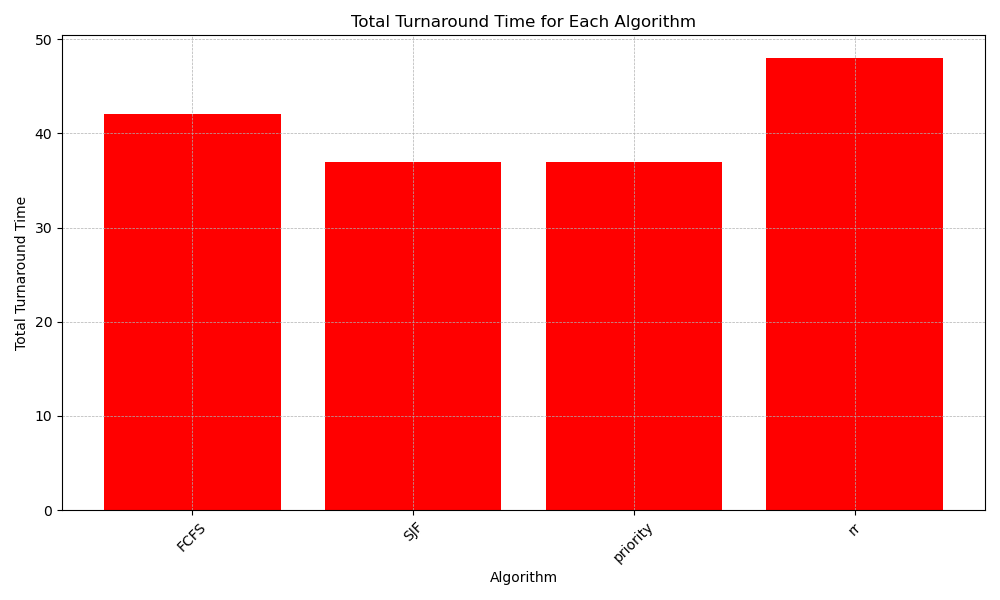
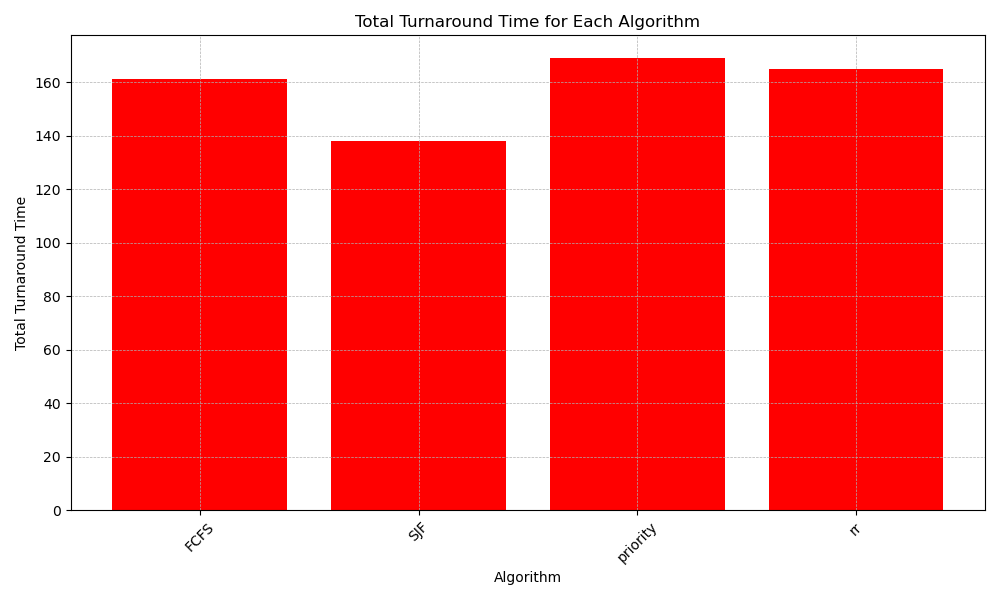
documentation not done

diff --git a/scheduler.py b/scheduler.py
@@ -2,19 +2,34 @@ from process import Process
 from utils import *
 
 class Scheduler:
+    """
+    Represents a CPU scheduler.
+    """
+
     def __init__(self, processes):
+        """
+        Initialize the scheduler with a list of processes.
+
+        Args:
+            processes (list): List of Process objects.
+        """
         self.processes = processes
         self.total_turnaround_time = 0.0
         self.total_waiting_time = 0.0
-        self.avg_turnaround_time =0.0
+        self.avg_turnaround_time = 0.0
         self.avg_waiting_time = 0.0
 
     def run_FCFS(self):
+        """
+        Run the First-Come, First-Served (FCFS) scheduling algorithm.
+        """
         # Sort processes based on arrival time
         self.processes.sort(key=lambda x: x.arrival_time)
 
         current_time = 0
         gantt = []
+
+        # Execute each process in FCFS order
         for process in self.processes:
             # Ensure current time is at least the arrival time of the current process
             if current_time < process.arrival_time:
@@ -22,7 +37,8 @@ class Scheduler:
 
             # Execute the process
             print(f"Executing Process {process.id} at Time {current_time}")
-            gantt.append((process.id,process.burst_time))
+            gantt.append((process.id, process.burst_time))
+
             # Update current time to account for process burst time
             current_time += process.burst_time
 
@@ -32,7 +48,7 @@ class Scheduler:
             # Calculate and display turnaround time for the process
             turnaround_time = process.finish_time - process.arrival_time
             print(f"Process {process.id} completed. Turnaround Time: {turnaround_time}")
-        
+
         # Calculate and display average turnaround time for all processes
         avg_turnaround_time = calculate_average_turnaround_time(self.processes)
         avg_waiting_time = calculate_average_waiting_time(self.processes)
@@ -45,6 +61,9 @@ class Scheduler:
         return gantt
 
     def run_SJF(self):
+        """
+        Run the Shortest Job First (SJF) scheduling algorithm.
+        """
         # Sort processes based on arrival time
         self.processes.sort(key=lambda x: x.arrival_time)
         original = [i for i in self.processes]
@@ -71,6 +90,7 @@ class Scheduler:
             # Execute the shortest job
             print(f"Executing Process {shortest_job.id} at Time {current_time}")
             gantt.append((shortest_job.id, shortest_job.burst_time))
+
             # Update current time to account for process burst time
             current_time += shortest_job.burst_time
 
@@ -84,6 +104,7 @@ class Scheduler:
             # Remove the completed process from the list of processes
             self.processes.remove(shortest_job)
             completed_processes.append(shortest_job)
+
         self.processes = [i for i in original]
 
         # Calculate and display average turnaround time for all processes
@@ -98,6 +119,9 @@ class Scheduler:
         return gantt
 
     def run_priority_scheduling(self):
+        """
+        Run the Priority Scheduling algorithm.
+        """
         # Sort processes based on arrival time and priority
         self.processes.sort(key=lambda x: (x.arrival_time, -x.priority))
         original = [i for i in self.processes]
@@ -125,6 +149,7 @@ class Scheduler:
             # Execute the highest priority process
             print(f"Executing Process {highest_priority_process.id} at Time {current_time}")
             gantt.append((highest_priority_process.id, highest_priority_process.burst_time))
+
             # Update current time to account for process burst time
             current_time += highest_priority_process.burst_time
 
@@ -154,6 +179,12 @@ class Scheduler:
         return gantt
 
     def run_round_robin(self, time_slice):
+        """
+        Run the Round Robin (RR) scheduling algorithm.
+
+        Args:
+            time_slice (int): The time quantum for the RR algorithm.
+        """
         # Sort processes based on arrival time
         self.processes.sort(key=lambda x: x.arrival_time)
         current_time = 0
@@ -205,7 +236,3 @@ class Scheduler:
         print(f"Total Waiting Time (Round Robin): {total_waiting_time}")
 
         return gantt
-
-    def run_priority_rr(self, time_slice):
-        # Implement Priority Scheduling + RR algorithm with given time slice
-        pass

diff --git a/utils.py b/utils.py
@@ -1,7 +1,22 @@
+"""
+Utility functions for generating, calculating, and reading processes.
+"""
+
 import random
 from process import Process
 
 def generate_random_processes(num_processes, max_burst_time, max_priority):
+    """
+    Generate a list of random processes with specified attributes.
+
+    Args:
+        num_processes (int): The number of processes to generate.
+        max_burst_time (int): The maximum burst time for generated processes.
+        max_priority (int): The maximum priority for generated processes.
+
+    Returns:
+        list: List of randomly generated Process objects.
+    """
     processes = []
     random.seed()
 
@@ -15,6 +30,15 @@ def generate_random_processes(num_processes, max_burst_time, max_priority):
     return processes
 
 def calculate_average_turnaround_time(processes):
+    """
+    Calculate the average turnaround time for a list of processes.
+
+    Args:
+        processes (list): List of Process objects.
+
+    Returns:
+        float: Average turnaround time.
+    """
     total_turnaround_time = 0.0
     print("Turnaround:")
     for process in processes:
@@ -24,32 +48,73 @@ def calculate_average_turnaround_time(processes):
     return total_turnaround_time / len(processes)
 
 def calculate_total_turnaround_time(processes):
+    """
+    Calculate the total turnaround time for a list of processes.
+
+    Args:
+        processes (list): List of Process objects.
+
+    Returns:
+        float: Total turnaround time.
+    """
     total_turnaround_time = 0.0
     print("Turnaround:")
     for process in processes:
         print(f"{process.finish_time - process.arrival_time} + ")
-        process.turnaround = process.finish_time - process.arrival_time
         total_turnaround_time += (process.finish_time - process.arrival_time)
     return total_turnaround_time
 
 def calculate_average_waiting_time(processes):
+    """
+    Calculate the average waiting time for a list of processes.
+
+    Args:
+        processes (list): List of Process objects.
+
+    Returns:
+        float: Average waiting time.
+    """
     total_waiting_time = 0.0
     print("Waiting time:")
     for process in processes:
         print(f"{(process.finish_time - process.arrival_time) - process.burst_time} + ")
-        process.waiting = (process.finish_time - process.arrival_time) - process.burst_time
         total_waiting_time += (process.finish_time - process.arrival_time) - process.burst_time
     return total_waiting_time / len(processes)
+
 def calculate_total_waiting_time(processes):
+    """
+    Calculate the total waiting time for a list of processes.
+
+    Args:
+        processes (list): List of Process objects.
+
+    Returns:
+        float: Total waiting time.
+    """
     total_waiting_time = 0.0
     print("Waiting time:")
     for process in processes:
         print(f"{(process.finish_time - process.arrival_time) - process.burst_time} + ")
         total_waiting_time += (process.finish_time - process.arrival_time) - process.burst_time
     return total_waiting_time
-def find_process_by_id(process_id, processes):
-    """Find a process by its ID."""
-    for process in processes:
-        if process.id == process_id:
-            return process
-    return None
+
+def read_processes_from_file(file_path):
+    """
+    Read process information from a file and create Process objects.
+
+    Args:
+        file_path (str): The path to the file containing process information.
+
+    Returns:
+        list: List of Process objects read from the file.
+    """
+    processes = []
+    with open(file_path, "r") as file:
+        for line in file:
+            attributes = line.strip().split()
+            priority = None
+            if int(attributes[3]) != -1:
+                priority = int(attributes[3])
+            process = Process(int(attributes[0]), int(attributes[1]), int(attributes[2]), priority)
+            processes.append(process)
+    return processes

diff --git a/test.py b/test.py
@@ -2,42 +2,23 @@ from process import Process
 from scheduler import Scheduler
 from utils import *
 
-def read_processes_from_file(file_path):
-    processes = []
-    with open(file_path, "r") as file:
-        for line in file:
-            attributes = line.strip().split()
-            priority = None
-            if int(attributes[3]) != -1:
-                priority = int(attributes[3])
-            process = Process(int(attributes[0]), int(attributes[1]), int(attributes[2]), priority)
-            processes.append(process)
-    return processes
+# Create a list of processes manually
+processes_manual = [
+     Process(id=1, arrival_time=1, burst_time=1, priority=1),
+     Process(id=2, arrival_time=1, burst_time=1, priority=2),
+]
 
+# Reading processes from processes2.txt file in the same directory
+processes_file = read_processes_from_file("processes2.txt")
 
-# Create a list of processes
-processes = [
-     Process(id=1, arrival_time=0, burst_time=7, priority=1),
-     Process(id=2, arrival_time=1, burst_time=4, priority=2),
-     Process(id=3, arrival_time=2, burst_time=15, priority=3),
-     Process(id=4, arrival_time=3, burst_time=11, priority=3),
-     Process(id=5, arrival_time=4, burst_time=20, priority=3),
-     Process(id=6, arrival_time=4, burst_time=9, priority=3),
- ]
-
-
-#processes = read_processes_from_file("processes.txt")
-
-#for process in processes:
- #   print(process)
+# Printing information about all of the processes
+for process in processes_file:
+   print(process)
 
 # Create a scheduler instance and run the FCFS algorithm
-scheduler = Scheduler(processes)
-#scheduler.run_FCFS()
+scheduler = Scheduler(processes_file)
+scheduler.run_FCFS()
 # scheduler.run_SJF()
 # scheduler.run_priority_scheduling()
-scheduler.run_round_robin(2)
-# scheduler.run_priority_rr()
-
-# Alternatively, you can call the display_results method to print out the results
-# scheduler.display_results()
+# scheduler.run_round_robin(2)
+# scheduler.run_round_robin_priority(4)

diff --git a/process.py b/process.py
@@ -1,18 +1,44 @@
 class Process:
+    """
+    Represents a process in a CPU scheduling simulation.
+    """
+
     def __init__(self, id, arrival_time, burst_time, priority=None):
+        """
+        Initialize a process with its attributes.
+
+        Args:
+            id (int): The unique identifier of the process.
+            arrival_time (int): The time at which the process arrives.
+            burst_time (int): The amount of CPU time required by the process to complete.
+            priority (int, optional): The priority of the process. Defaults to None.
+        """
         self.id = id
         self.arrival_time = arrival_time
         self.burst_time = burst_time
         self.priority = priority
         self.finish_time = None
-        self.turnaround = 0.0
-        self.waiting = 0.0
 
     @staticmethod
     def sort_by_id(processes):
-            return sorted(processes, key=lambda x: x.id)
+        """
+        Sorts a list of processes by their IDs.
+
+        Args:
+            processes (list): List of Process objects.
+
+        Returns:
+            list: List of Process objects sorted by ID.
+        """
+        return sorted(processes, key=lambda x: x.id)
 
     def to_dict(self):
+        """
+        Convert the process attributes to a dictionary.
+
+        Returns:
+            dict: Dictionary containing process attributes.
+        """
         return {
             'process_id': self.id,
             'arrival_time': self.arrival_time,
@@ -20,3 +46,11 @@ class Process:
             'priority': self.priority
         }
 
+    def __str__(self):
+        """
+        String representation of the process.
+
+        Returns:
+            str: String containing process attributes.
+        """
+        return f"Process ID: {self.id}, Arrival Time: {self.arrival_time}, Burst Time: {self.burst_time}, Priority: {self.priority}, Finish Time: {self.finish_time}"
